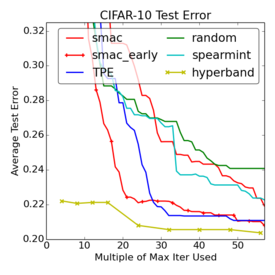
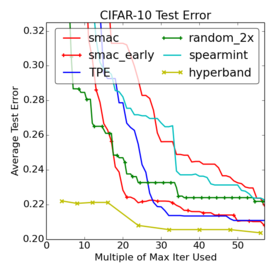
modded experiments on hyperbanjo

diff --git a/_posts/2016-06-16-hyperband.md b/_posts/2016-06-16-hyperband.md
@@ -28,15 +28,18 @@ Successive halving was inspired by an earlier heuristic by Evan Sparks and coaut
 
 ## Neural net experiments
 
-Let's look at two image classification benchmarks: CIFAR-10 and the Street View House
-Numbers (SVHN).  Both data sets contain 32 × 32 RGB images. Each dataset is
-split into a training, validation, and test set: (1) CIFAR-10 has 40,000, 10,000, and 10,000 instances;
-(2) SVHN has close to 600,000, 6,000, and 26,000 instances.
+Let's look at three small image classification benchmarks: CIFAR-10, the Street View House
+Numbers (SVHN), and rotated MNIST with background images (MRBI). The CIFAR-10 and SVHN data sets contain 32 × 32 RGB images. MRBI contains 28 x 28 grayscale images.  Each dataset is split into a training, validation, and test set: (1) CIFAR-10 has 40,000, 10,000, and 10,000 instances; (2) SVHN has close to 600,000, 6,000, and 26,000 instances. (3) MRBI has 10,000 , 2,000, and 50,000 instances for training, validation, and test respectively.
 
-For the experts out there, the goal is to tune the basic [cuda-convnet model](https://code.google.com/p/cuda-convnet/), searching for the optimal learning rate, learning rate decay, $\ell_2$ regularization parameters on different layers, and parameters of the response normalizations.  For both datasets, the basic unit of time, $T$, was 10,000 examples. For CIFAR-10 this was one-fourth of an epoch, and $M$ was 300, equivalent to 75 epochs over the 40,000 example training set. For SVHN, $T$ corresponded to one-sixtieth of an epoch and $M$ was set to 600, equivalent to 10 epochs over the 600,000 example training set. The full details of these experiments are described in the paper. The plots below compare the performance of the Hyperband algorithm to a variety of other hyperparameter tuning algorithms
+For the experts out there, the goal is to tune the basic [cuda-convnet model](https://code.google.com/p/cuda-convnet/), searching for the optimal learning rate, learning rate decay, $\ell_2$ regularization parameters on different layers, and parameters of the response normalizations.  For both datasets, the basic unit of time, $T$, was 10,000 examples. For CIFAR-10 this was one-fourth of an epoch, and $M$ was 300, equivalent to 75 epochs over the 40,000 example training set. For SVHN, $T$ corresponded to one-sixtieth of an epoch and $M$ was set to 600, equivalent to 10 epochs over the 600,000 example training set.  For MRBI, $T$ was one epoch and $M$ was 300. The full details of these experiments are described in the paper. The plots below compare the performance of the Hyperband algorithm to a variety of other hyperparameter tuning algorithms.  In particular, as raised in the comments in the previous post, we are comparing to [Spearmint](), a very popular Bayesian optimization scheme and [SMAC-early]() which is a variant of SMAC that is designed to incorporate early stopping.  The following plots are curves of the mean of 10 trials (*not the min of 10 trials*).
 
 {: .center}
 ![Comparison of methods on CIFAR-10](/assets/hyperband/cifar10-compare.png)
 ![Comparison of methods on SVHN](/assets/hyperband/svhn-compare.png)
 
-These results are pretty shocking.  Hyperband finds a decent solution in a fraction of the time of the other methods.  It also finds the best solution over all. On SVHN, it finds the best solution in a third of the time of the other methods. And, again, the protocol is just 7 lines of python code.  Hyperband is just a first step, and other might not be the ideal solution for your particular workload. But I think these plots nicely illustrate how simple-but enhancements of random search can go a very long way.  
+{: .center}
+![Comparison of methods on MRBI](/assets/hyperband/mrbi-compare.png)
+
+First, note that Random-2x is again a very competitive algorithm.  None of the pure Bayesian optimization methods outperform Random-2x on all three data sets. Only SMAC-early, with its ability to stop underperforming jobs, is able to consistently outperform Random-2x.  
+
+The comparison to Hyperband, on the other hand, is striking.  On average, Hyperband finds a decent solution in a fraction of the time of all of the other methods.  It also finds the best solution over all in all three cases. On SVHN, it finds the best solution in a third of the time of the other methods. And, again, the protocol is just 7 lines of python code.  Hyperband is just a first step, and other might not be the ideal solution for your particular workload. But I think these plots nicely illustrate how simple-but enhancements of random search can go a very long way.  
